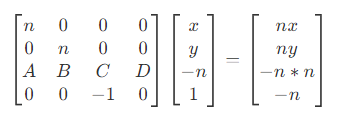
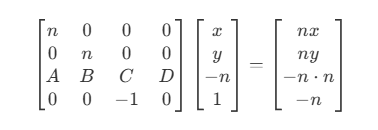
deploy: FallingXun/FallingXun.github.io.source@50bb82ca25c99086e2e48a5e48adec536786e8a2

Changed region(s): [[0.0295, 0.1008, 0.9735, 0.9076], [0.5605, 0.3782, 0.59, 0.5042], [0.5605, 0.1765, 0.59, 0.2773]]

diff --git a/post/render/graphics/graphics_transform/index.html b/post/render/graphics/graphics_transform/index.html
@@ -110,8 +110,8 @@ post-container">
 <ul>
 <li>可以保留矢量加和标量乘的变换，即
 <ul>
-<li>f(x) + f(y) = f(x + y)</li>
-<li>kf(x) = f(kx)</li>
+<li><code>f(x) + f(y) = f(x + y)</code></li>
+<li><code>kf(x) = f(kx)</code></li>
 </ul>
 </li>
 <li>缩放（scale）、旋转（rotation）、错切（shear）、镜像（mirroring）、正交投影（orthography projection）等</li>
@@ -140,21 +140,21 @@ post-container">
 </ul>
 </li>
 <li>对于复合变换，需要按照先缩放，再旋转，最后平移的顺序，才能保证最后得到正确的效果。</li>
-<li>在 Unity 中，坐标系是按照 y-x-z 的逐级组合的，如果绕世界坐标系下的固定坐标轴旋转，需要按照 zxy 的顺序。如果绕自身坐标系旋转，由于旋转时自身坐标系也会发生改变，根据坐标系的次序，需要按照 yxz 的顺序进行旋转，即
+<li>在 Unity 中，坐标系是按照 <code>y-x-z</code> 的逐级组合的，如果绕世界坐标系下的固定坐标轴旋转，需要按照 zxy 的顺序。如果绕自身坐标系旋转，由于旋转时自身坐标系也会发生改变，根据坐标系的次序，需要按照 yxz 的顺序进行旋转，即
 <img src="/img/Render/Graphics/Transform/Math_Transform_6.png?raw=true" alt=Math_Transform_6.png>
 </li>
-<li>在图形学计算中，从CPU传入的顶点坐标，需要从模型空间，变换到世界空间，再变换到视图空间，再变换到裁剪空间，最后变换到屏幕空间。从模型空间变换到裁剪空间，就是常说的 MVP 变换。</li>
+<li>在图形学计算中，从CPU传入的顶点坐标，需要从模型空间，变换到世界空间，再变换到观察空间，再变换到裁剪空间，最后变换到屏幕空间。从模型空间变换到裁剪空间，就是常说的 MVP 变换。</li>
 </ul>
 <h3 id=模型变换>模型变换</h3>
 <ul>
-<li>模型变换，即将坐标从模型空间变换到世界空间。在 Unity 中，如果一个 GameObject 没有父节点，那么其坐标即为世界空间下的坐标。如果存在父节点，则其自身坐标即为模型空间下的坐标，需要进行变换。变换为复合变换，将所有父节点的信息累计起来，进行平移、缩放和旋转。假设父节点的坐标为（x，y，z），角度为（θ，0, 0），则最终模型变换的变换矩阵即为
+<li>模型变换，即将坐标从模型空间变换到世界空间。在 Unity 中，如果一个 GameObject 没有父节点，那么其坐标即为世界空间下的坐标。如果存在父节点，则其自身坐标即为模型空间下的坐标，需要进行变换。变换为复合变换，将所有父节点的信息累计起来，进行平移、缩放和旋转。假设父节点的坐标为<code>（x，y，z）</code>，角度为<code>（θ，0, 0）</code>，则最终模型变换的变换矩阵即为
 <img src="/img/Render/Graphics/Transform/Math_Transform_7.png?raw=true" alt=Math_Transform_7.png>
 </li>
 </ul>
-<h3 id=视图变换>视图变换</h3>
+<h3 id=观察变换>观察变换</h3>
 <ul>
-<li>相机决定了渲染使用的视角，在视图空间下，相机的坐标为原点坐标，x轴正向为右方，y轴正向为上方，z轴正向为相机后方。尽管 Unity 在模型空间和世界空间下使用的都是左手坐标系，但在观察空间下， Unity 和 OpenGL 一样，使用右手坐标系，因此，相机的正前方为 -z 。</li>
-<li>为了将物体变换到视图空间下，需要对应的变换矩阵。若将相机变换到世界坐标下的原点，并旋转到与坐标轴重合，再将相机的 z 方向取反，此时对应物体经过同样的变换后，在世界空间下的信息即为在视图空间下的信息。假设相机在世界空间下的坐标为（x，y，z），角度为（θ，0, 0），则视图变换矩阵为
+<li>相机决定了渲染使用的视角，在观察空间下，相机的坐标为原点坐标，x轴正向为右方，y轴正向为上方，<code>z</code> 轴正向为相机后方。尽管 Unity 在模型空间和世界空间下使用的都是左手坐标系，但在观察空间下， Unity 和 OpenGL 一样，使用右手坐标系，因此，相机的正前方为 <code>-z</code> 。</li>
+<li>为了将物体变换到观察空间下，需要对应的变换矩阵。若将相机变换到世界坐标下的原点，并旋转到与坐标轴重合，再将相机的 z 方向取反，此时对应物体经过同样的变换后，在世界空间下的信息即为在观察空间下的信息。假设相机在世界空间下的坐标为<code>（x，y，z）</code>，角度为<code>（θ，0, 0）</code>，则观察变换矩阵为
 <img src="/img/Render/Graphics/Transform/Math_Transform_8.png?raw=true" alt=Math_Transform_8.png>
 </li>
 </ul>
@@ -163,21 +163,21 @@ post-container">
 <li>相机最终渲染的范围为其视锥体范围，在视锥体内的正常渲染，视锥体外的则剔除，与视锥体相交的则会被裁剪，只保留视锥体内的部分。对于正交投影，视锥体是一个长方体，计算对象是否在其范围相对比较简单，而透视投影是一个锥体，计算难度则相对较大。另外，由于每个相机都有各自的参数，所以各自的视锥体都不一样，因此计算起来也更加复杂。为了能统一到一个通用、简单的结构下进行计算，则需要进行投影变换。</li>
 <li>视锥体的一些表示
 <ul>
-<li>l ：近裁剪平面的左边</li>
-<li>r ：近裁剪平面的右边</li>
-<li>t ：近裁剪平面的上边</li>
-<li>b ：近裁剪平面的下边</li>
-<li>n ：近裁剪平面的距离（正）</li>
-<li>f ：远裁剪平面的距离（正）</li>
+<li><code>l</code> ：近裁剪平面的左边</li>
+<li><code>r</code> ：近裁剪平面的右边</li>
+<li><code>t</code> ：近裁剪平面的上边</li>
+<li><code>b</code> ：近裁剪平面的下边</li>
+<li><code>n</code> ：近裁剪平面的距离（正）</li>
+<li><code>f</code> ：远裁剪平面的距离（正）</li>
 </ul>
 </li>
 </ul>
 <h4 id=正交投影>正交投影</h4>
 <ul>
-<li>正交模式下，视锥体是一个长方体，要将长方体视锥体变换到以 (0, 0) 为中心， [-1, 1] 范围的正方体内，因此需要执行两个步骤
+<li>正交模式下，视锥体是一个长方体，要将长方体视锥体变换到以 <code>(0, 0)</code> 为中心， <code>[-1, 1]</code> 范围的正方体内，因此需要执行两个步骤
 <ul>
 <li>将视锥体中心移动到坐标原点</li>
-<li>将视锥体进行缩放，形成 [-1, 1] 的正方体</li>
+<li>将视锥体进行缩放，形成 <code>[-1, 1]</code> 的正方体</li>
 </ul>
 </li>
 <li>所以正交投影矩阵为
@@ -193,7 +193,7 @@ post-container">
 <li>按照正交投影进行投影变换</li>
 </ul>
 </li>
-<li>为了将视锥体变换为长方体，首先需要将视锥体的 x、y 坐标投影到近裁剪平面对应的坐标值。
+<li>为了将视锥体变换为长方体，首先需要将视锥体的 <code>x</code> 、<code>y</code> 坐标投影到近裁剪平面对应的坐标值。
 <img src="/img/Render/Graphics/Transform/Transform_1.png?raw=true" alt=Transform_1.png>
 </li>
 <li>可以看到，视锥体上的点的关系为
@@ -206,13 +206,13 @@ post-container">
 <li>可以推出变换矩阵
 <img src="/img/Render/Graphics/Transform/Math_Transform_14.png?raw=true" alt=Math_Transform_14.png>
 </li>
-<li>由于远近裁剪平面经过变换后，还是保持不变，对于近裁剪平面上的点，z = z' = -n ，则有
+<li>由于远近裁剪平面经过变换后，还是保持不变，对于近裁剪平面上的点，<code>z = z' = -n</code> ，则有
 <img src="/img/Render/Graphics/Transform/Math_Transform_15.png?raw=true" alt=Math_Transform_15.png>
 </li>
 <li>因此可以得到，变换矩阵为
 <img src="/img/Render/Graphics/Transform/Math_Transform_16.png?raw=true" alt=Math_Transform_16.png>
 </li>
-<li>同样，对于远裁剪平面上的点，z = z' = -f ，则有
+<li>同样，对于远裁剪平面上的点，<code>z = z' = -f</code> ，则有
 <img src="/img/Render/Graphics/Transform/Math_Transform_17.png?raw=true" alt=Math_Transform_17.png>
 </li>
 <li>可以得到
@@ -229,15 +229,80 @@ post-container">
 </ul>
 <h3 id=齐次除法透视除法>齐次除法（透视除法）</h3>
 <ul>
-<li>经过投影变换后，得到的视锥体，需要投影到屏幕空间中。然而可以发现，正交投影和透视投影得到的视锥体并不是统一的，所以需要统一转换到 NDC（Normalized Device Coordinates）中，即将 x、y、z、w 都除以 w 分量。</li>
+<li>经过投影变换后，得到的视锥体，需要投影到屏幕空间中。然而可以发现，正交投影和透视投影得到的视锥体并不是统一的，所以需要统一转换到 NDC（Normalized Device Coordinates）中，即将 <code>x</code> 、<code>y</code> 、<code>z</code> 、<code>w</code> 都除以 <code>w</code> 分量。</li>
 <li>正交投影变换为
 <img src="/img/Render/Graphics/Transform/Math_Transform_23.png?raw=true" alt=Math_Transform_23.png>
-由于 w 分量为 1，因此齐次除法后保持不变。</li>
+由于 <code>w</code> 分量为 <code>1</code>，因此齐次除法后保持不变。</li>
 <li>透视投影变换为
 <img src="/img/Render/Graphics/Transform/Math_Transform_24.png?raw=true" alt=Math_Transform_24.png>
-由于 w 分量为 -z，所以 x、y、z 都要除以 -z，从而将视锥体转换到 [-1, 1] 范围里。</li>
+由于 <code>w</code> 分量为 <code>-z</code>，所以 <code>x</code> 、<code>y</code> 、<code>z</code> 都要除以 <code>-z</code>，从而将视锥体转换到 <code>[-1, 1]</code> 范围里，即
+<img src="/img/Render/Graphics/Transform/Math_Transform_31.png?raw=true" alt=Math_Transform_31.png>
+</li>
 </ul>
-<h3 id=总结>总结</h3>
+<h3 id=深度值>深度值</h3>
+<ul>
+<li>透视投影经过齐次除法后，<code>z_NDC</code> 的值为
+<img src="/img/Render/Graphics/Transform/Math_Transform_25.png?raw=true" alt=Math_Transform_25.png>
+</li>
+<li>在像素着色器中，每一个像素的坐标都需要通过插值计算得到，在透视投影下，需要使用<a href=https://fallingxun.github.io/post/render/graphics/graphics_barycentricinterpolation/>透视校正插值</a>。此时，如果深度图使用观察空间下的 <code>z_view</code> ，则在插值过程需要对属性 <code>I</code> 除以 <code>z_view</code> 计算，因此深度图使用 <code>z_NDC</code> 可以减少计算复杂度。</li>
+<li>由于深度图的范围为 <code>[0, 1]</code> ，因此深度图中的 <code>z_depth</code> 值为
+<img src="/img/Render/Graphics/Transform/Math_Transform_26.png?raw=true" alt=Math_Transform_26.png>
+</li>
+<li>可以看到，齐次除法后的 <code>z_NDC</code> 值已经不为观察空间下 <code>z_view</code> 值的线性变换，因此使用深度图的深度信息时，需要变换观察空间下才能进行其他计算，即
+<img src="/img/Render/Graphics/Transform/Math_Transform_27.png?raw=true" alt=Math_Transform_27.png>
+</li>
+<li>由于 OpenGL 中观察空间为右手坐标系，而裁剪空间下是左手坐标系，所以观察空间下的 <code>z_view</code> 值需要取反，才为左手坐标系下的线性 <code>z_eye</code> 值，即
+<img src="/img/Render/Graphics/Transform/Math_Transform_28.png?raw=true" alt=Math_Transform_28.png>
+</li>
+<li>当相机位置为 0 ，远裁剪平面为 1 时，即在左手坐标系下整体缩小 <code>f</code> ，则深度值 <code>z_linear01</code> 为
+<img src="/img/Render/Graphics/Transform/Math_Transform_29.png?raw=true" alt=Math_Transform_29.png>
+</li>
+<li>当近裁剪平面为 0 ，原裁剪平面为 1 时，即在左手坐标系下先移动 <code>-n</code> ，再整体缩小 <code>f</code> ，则深度值 <code>z_linear01FromNear</code> 为
+<img src="/img/Render/Graphics/Transform/Math_Transform_30.png?raw=true" alt=Math_Transform_30.png>
+</li>
+<li>因此，用于在 shader 中计算深度的 <code>_ZBufferParams</code> 参数值为
+<img src="/img/Render/Graphics/Transform/Math_Transform_32.png?raw=true" alt=Math_Transform_32.png>
+在 <code>com.unity.render-pipelines.core/ShaderLibrary/Common.hlsl</code> 中，获取线性深度的方法为</li>
+</ul>
+<pre tabindex=0><code>// Common.hlsl
+...
+
+// Z buffer to linear 0..1 depth (0 at near plane, 1 at far plane).
+// Does NOT correctly handle oblique view frustums.
+// Does NOT work with orthographic projection.
+// zBufferParam (UNITY_REVERSED_Z) = { f/n - 1,   1, (1/n - 1/f), 1/f }
+// zBufferParam                    = { 1 - f/n, f/n, (1/f - 1/n), 1/n }
+float Linear01DepthFromNear(float depth, float4 zBufferParam)
+{
+    #if UNITY_REVERSED_Z
+    return (1.0 - depth) / (zBufferParam.x * depth + zBufferParam.y);
+    #else
+    return depth / (zBufferParam.x * depth + zBufferParam.y);
+    #endif
+}
+
+// Z buffer to linear 0..1 depth (0 at camera position, 1 at far plane).
+// Does NOT work with orthographic projections.
+// Does NOT correctly handle oblique view frustums.
+// zBufferParam (UNITY_REVERSED_Z) = { f/n - 1,   1, (1/n - 1/f), 1/f }
+// zBufferParam                    = { 1 - f/n, f/n, (1/f - 1/n), 1/n }
+float Linear01Depth(float depth, float4 zBufferParam)
+{
+    return 1.0 / (zBufferParam.x * depth + zBufferParam.y);
+}
+
+// Z buffer to linear view space (eye) depth.
+// Does NOT correctly handle oblique view frustums.
+// Does NOT work with orthographic projection.
+// zBufferParam (UNITY_REVERSED_Z) = { f/n - 1,   1, (1/n - 1/f), 1/f }
+// zBufferParam                    = { 1 - f/n, f/n, (1/f - 1/n), 1/n }
+float LinearEyeDepth(float depth, float4 zBufferParam)
+{
+    return 1.0 / (zBufferParam.z * depth + zBufferParam.w);
+}
+
+...
+</code></pre><h3 id=总结>总结</h3>
 <ul>
 <li>计算机图形学中，变换的应用非常多，渲染时基本上离不开坐标变换，理解各个过程的变换矩阵，也有助于理解整个渲染的过程。</li>
 </ul>

diff --git a/file/Render/Graphics/Transform/Math_Transform.md b/file/Render/Graphics/Transform/Math_Transform.md
@@ -60,7 +60,7 @@ y' = -\frac{ny}{z}
 
 - Math_Transform_13
 ```math
-M \begin{bmatrix} x\\y\\z\\1 \end{bmatrix} = \begin{bmatrix} -\frac{nx}{z}\\-\frac{ny}{z}\\z'\\1 \end{bmatrix} =  \begin{bmatrix} nx\\ny\\z'*-z\\-z \end{bmatrix} 
+M \begin{bmatrix} x\\y\\z\\1 \end{bmatrix} = \begin{bmatrix} -\frac{nx}{z}\\-\frac{ny}{z}\\z'\\1 \end{bmatrix} =  \begin{bmatrix} nx\\ny\\z' \cdot -z\\-z \end{bmatrix} 
 ```
 
 - Math_Transform_14
@@ -70,7 +70,7 @@ M  = \begin{bmatrix}n&0&0&0 \\0&n&0&0 \\A&B&C&D \\0&0&1&0 \end{bmatrix}
 
 - Math_Transform_15
 ```math
-\begin{bmatrix}n&0&0&0 \\0&n&0&0 \\A&B&C&D \\0&0&-1&0 \end{bmatrix} \begin{bmatrix} x\\y\\-n\\1 \end{bmatrix} = \begin{bmatrix} nx\\ny\\-n * n\\-n\end{bmatrix} 
+\begin{bmatrix}n&0&0&0 \\0&n&0&0 \\A&B&C&D \\0&0&-1&0 \end{bmatrix} \begin{bmatrix} x\\y\\-n\\1 \end{bmatrix} = \begin{bmatrix} nx\\ny\\-n \cdot n\\-n\end{bmatrix} 
 ```
 
 - Math_Transform_16
@@ -80,7 +80,7 @@ M  = \begin{bmatrix}n&0&0&0 \\0&n&0&0 \\0&0&C&D \\0&0&-1&0 \end{bmatrix}
 
 - Math_Transform_17
 ```math
-\begin{bmatrix}n&0&0&0 \\0&n&0&0 \\0&0&C&D \\0&0&-1&0 \end{bmatrix} \begin{bmatrix} x\\y\\-f\\1 \end{bmatrix} = \begin{bmatrix} nx\\ny\\-f * f\\-f\end{bmatrix} 
+\begin{bmatrix}n&0&0&0 \\0&n&0&0 \\0&0&C&D \\0&0&-1&0 \end{bmatrix} \begin{bmatrix} x\\y\\-f\\1 \end{bmatrix} = \begin{bmatrix} nx\\ny\\-f \cdot f\\-f\end{bmatrix} 
 ```
 
 - Math_Transform_18
@@ -105,7 +105,7 @@ M_{presp}  = \begin{bmatrix}\frac{2}{r - l}&0&0&-\frac{r + l}{r - l} \\0&\frac{2
 
 - Math_Transform_22
 ```math
-M_{presp}  = \begin{bmatrix}\frac{2n}{r - l}&0&\frac{r + l}{r - l}&0 \\0&\frac{2n}{t - b}&\frac{t + b}{t - b}&0 \\0&0&-\frac{f + n}{f - n}&-\frac{2nf}{f - n} \\0&0&-1&0 \end{bmatrix}
+M_{presp}  = \begin{bmatrix}\frac{2n}{r - l}&0&0&\frac{r + l}{r - l} \\0&\frac{2n}{t - b}&0&\frac{t + b}{t - b} \\0&0&-\frac{f + n}{f - n}&-\frac{2nf}{f - n} \\0&0&-1&0 \end{bmatrix}
 ```
 
 - Math_Transform_23
@@ -116,4 +116,45 @@ M_{presp}  = \begin{bmatrix}\frac{2n}{r - l}&0&\frac{r + l}{r - l}&0 \\0&\frac{2
 - Math_Transform_24
 ```math
 \begin{bmatrix}\frac{2n}{r - l}&0&\frac{r + l}{r - l}&0 \\0&\frac{2n}{t - b}&\frac{t + b}{t - b}&0 \\0&0&-\frac{f + n}{f - n}&-\frac{2nf}{f - n} \\0&0&-1&0 \end{bmatrix}  \begin{bmatrix} x\\y\\z\\1 \end{bmatrix} = \begin{bmatrix} \frac{2n}{r - l}x + \frac{r + l}{r - l}z \\ \frac{2n}{t - b}y + \frac{t + b}{t - b}z \\ -\frac{f + n}{f - n}z - \frac{2nf}{f - n} \\-z \end{bmatrix}
+```
+
+- Math_Transform_25
+```math
+z_{_{NDC}} = \frac{f + n}{f - n} + \frac{2nf}{f - n} \cdot \frac{1}{z_{_{view}}}
+```
+
+- Math_Transform_26
+```math
+z_{_{depth}} = \frac{z_{_{NDC}} + 1}{2}
+```
+
+- Math_Transform_27
+```math
+z_{_{view}} = \frac{1}{(\frac{1}{n}-\frac{1}{f})z_{_{depth}} - \frac{1}{n}}
+```
+
+- Math_Transform_28
+```math
+z_{_{eye}} = -z_{_{view}} = \frac{1}{(\frac{1}{f}-\frac{1}{n})z_{_{depth}} + \frac{1}{n}}
+```
+
+- Math_Transform_29
+```math
+z_{_{linear01}} = \frac{z_{_{eye}}}{f} = \frac{1}{(1-\frac{f}{n})z_{_{depth}} + \frac{f}{n}}
+```
+
+- Math_Transform_30
+```math
+z_{_{linear01FromNear}} = \frac{z_{_{eye}} - n}{f - n} = \frac{1}{(1-\frac{f}{n})z_{_{depth}} + \frac{f}{n}}
+```
+
+
+- Math_Transform_31
+```math
+\begin{bmatrix}\frac{2n}{r - l}&0&\frac{r + l}{r - l}&0 \\0&\frac{2n}{t - b}&\frac{t + b}{t - b}&0 \\0&0&-\frac{f + n}{f - n}&-\frac{2nf}{f - n} \\0&0&-1&0 \end{bmatrix}  \begin{bmatrix} x\\y\\z\\1 \end{bmatrix} = \begin{bmatrix} -\frac{2n}{r - l} \cdot \frac{x}{z} - \frac{r + l}{r - l} \\ -\frac{2n}{t - b} \cdot \frac{y}{z} - \frac{t + b}{t - b} \\ \frac{f + n}{f - n} + \frac{2nf}{f - n} \cdot \frac{1}{z} \\1 \end{bmatrix}
+```
+
+- Math_Transform_32
+```math
+\_zBufferParams = [(1 - \frac{f}{n}) \space\space,\space\space (\frac{f}{n}) \space\space,\space\space (\frac{1}{f} - \frac{1}{n}) \space\space, \space\space (\frac{1}{n})]
 ```

diff --git a/file/Render/Graphics/BarycentricInterpolation/Math_BarycentricInterpolation.md b/file/Render/Graphics/BarycentricInterpolation/Math_BarycentricInterpolation.md
@@ -165,7 +165,7 @@ y_P = \alpha y_A + \beta y_B + \gamma y_C
 
 - Math_BarycentricInterpolation_33
 ```math
-\frac{1}{z_{P'}} = \frac{1}{z_{A'}}\alpha + \frac{1}{z_{B'}}\beta + \frac{1}{z_{C'}}
+\frac{1}{z_{P'}} = \frac{1}{z_{A'}}\alpha + \frac{1}{z_{B'}}\beta + \frac{1}{z_{C'}} \gamma
 ```
 
 - Math_BarycentricInterpolation_34
